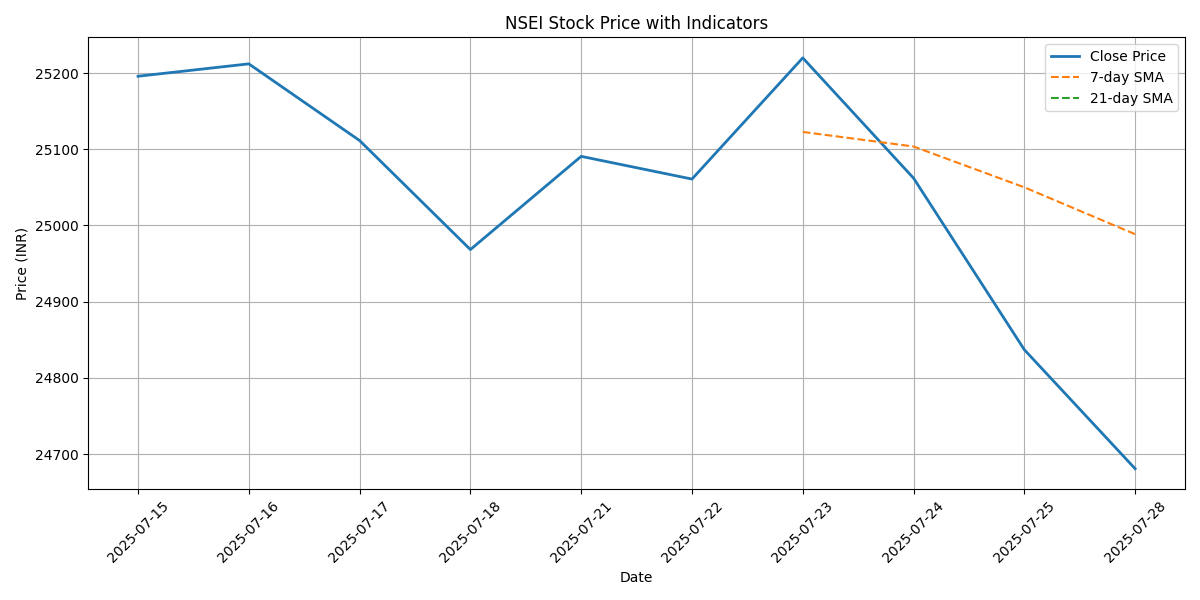
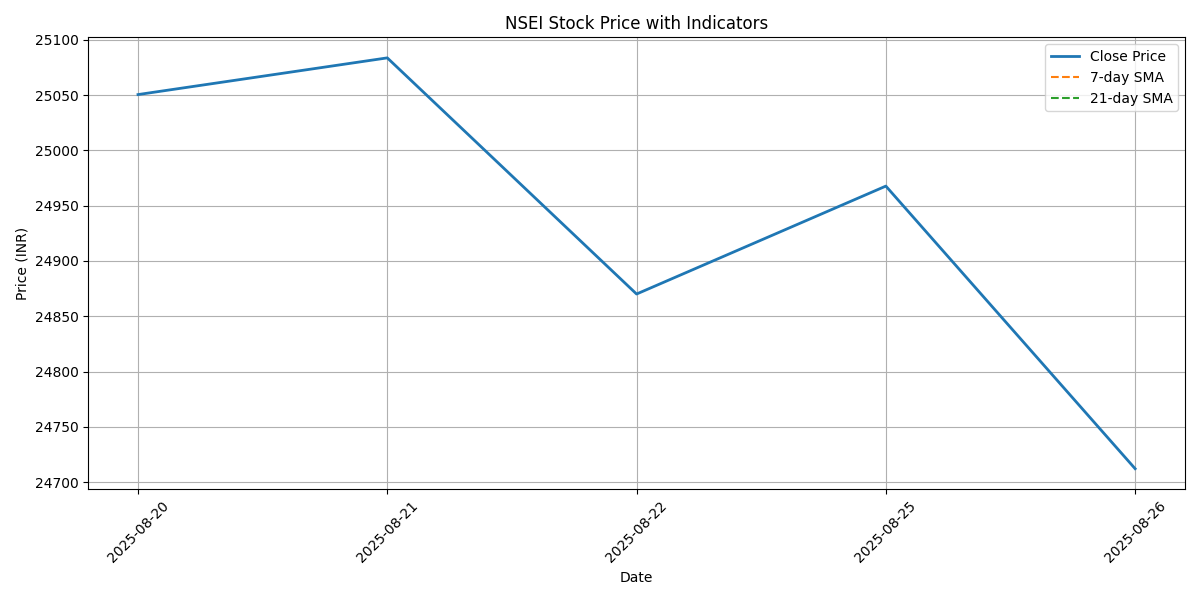
Add .gitattributes to enforce LF line endings for CSV files

diff --git a/src/model.py b/src/model.py
@@ -11,7 +11,7 @@ from datetime import date
 api_key = "c30d7a7f8b784290bf8106ae22ef4a2c"
 ticker = "^NSEI"
 query = "Nifty50"
-start_date = "2025-07-15"
+start_date = "2025-08-20"
 end_date = date.today().isoformat()
 
 # --- Get stock data ---
@@ -120,8 +120,9 @@ def run_sentiment_analysis_and_train(news_json, stock_df):
         print("⚠ Mixed signals — proceed with CAUTION.")
 
     # --- MLflow Logging ---
-    mlflow.set_tracking_uri("file:D:/MTP/mlruns")
+    mlflow.set_tracking_uri("file:/home/sweta/MTP/mlruns")
     mlflow.set_experiment("Financial_Sentiment_Pipeline")
+
 
     with mlflow.start_run(run_name="Pipeline_Sentiment_Analysis"):
         mlflow.log_param("ticker", ticker)

diff --git a/src/ingestion.py b/src/ingestion.py
@@ -9,13 +9,14 @@ from newsapi import NewsApiClient
 import mlflow
 
 # --- MLflow Setup ---
-mlflow.set_tracking_uri("file:D:/MTP/mlruns")
-mlflow.set_experiment("Financial_Sentiment_Pipeline")  # Set experiment name
+mlflow.set_tracking_uri("file:/home/sweta/MTP/mlruns")
+mlflow.set_experiment("Financial_Sentiment_Pipeline")
+
 
 # --- Configuration ---
 ticker = "^NSEI"
 query = "Nifty"
-start_date = "2025-07-15"
+start_date = "2025-08-20"
 end_date = date.today().isoformat()
 
 raw_dir = "data/raw"

diff --git a/src/preprocessing.py b/src/preprocessing.py
@@ -7,9 +7,9 @@ import mlflow
 from datetime import date
 
 # --- MLflow Setup ---
-mlflow.set_tracking_uri("file:D:/MTP/mlruns")
-  # Ensures local logging
-mlflow.set_experiment("Financial_Sentiment_Pipeline")  # Group under a named experiment
+mlflow.set_tracking_uri("file:/home/sweta/MTP/mlruns")
+mlflow.set_experiment("Financial_Sentiment_Pipeline")
+
 
 # --- Directory Setup ---
 RAW_PATH = "data/raw"
